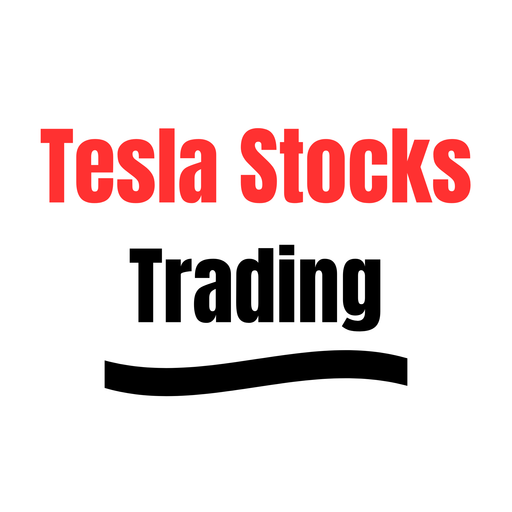
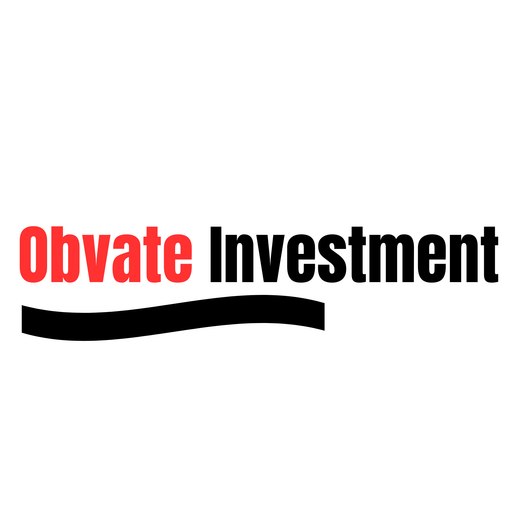
patch

Changed region(s): [[0.0312, 0.4375, 0.9688, 0.7812], [0.4688, 0.25, 0.9375, 0.4062], [0.0625, 0.25, 0.4375, 0.4062]]

diff --git a/app/layout.tsx b/app/layout.tsx
@@ -17,13 +17,13 @@ const montserrat = Montserrat({
 
 export const metadata: Metadata = {
   title: {
-    default: "Tesla Stocks Trading | Invest in the Future",
-    template: "%s | Tesla Stocks Trading",
+    default: "Obvate Investment Company | Invest in the Future",
+    template: "%s | Obvate Investment Company",
   },
   description:
     "Gain exposure to Tesla, SpaceX, Neuralink, xAI, and The Boring Company — the companies shaping humanity's next chapter.",
   keywords: [
-    "Tesla Stocks Trading",
+    "Obvate Investment Company",
     "invest",
     "Tesla",
     "SpaceX",
@@ -33,9 +33,9 @@ export const metadata: Metadata = {
     "digital assets",
     "investment platform",
   ],
-  authors: [{ name: "Tesla Stocks Trading" }],
-  creator: "Tesla Stocks Trading",
-  publisher: "Tesla Stocks Trading",
+  authors: [{ name: "Obvate Investment Company" }],
+  creator: "Obvate Investment Company",
+  publisher: "Obvate Investment Company",
   robots: {
     index: true,
     follow: true,
@@ -43,6 +43,9 @@ export const metadata: Metadata = {
   },
   icons: {
     icon: [
+      { url: "/favicon.ico", sizes: "32x32", type: "image/x-icon" },
+      { url: "/favicon-16x16.png", sizes: "16x16", type: "image/png" },
+      { url: "/favicon-32x32.png", sizes: "32x32", type: "image/png" },
       { url: "/icon-192.png", sizes: "192x192", type: "image/png" },
       { url: "/icon-512.png", sizes: "512x512", type: "image/png" },
     ],
@@ -51,8 +54,8 @@ export const metadata: Metadata = {
   openGraph: {
     type: "website",
     locale: "en_US",
-    siteName: "Tesla Stocks Trading",
-    title: "Tesla Stocks Trading | Invest in the Future",
+    siteName: "Obvate Investment Company",
+    title: "Obvate Investment Company | Invest in the Future",
     description:
       "Gain exposure to Tesla, SpaceX, Neuralink, xAI, and The Boring Company — the companies shaping humanity's next chapter.",
     images: [
@@ -60,13 +63,13 @@ export const metadata: Metadata = {
         url: "/og-image.png",
         width: 1200,
         height: 630,
-        alt: "Tesla Stocks Trading — Invest in the Future",
+        alt: "Obvate Investment Company — Invest in the Future",
       },
     ],
   },
   twitter: {
     card: "summary_large_image",
-    title: "Tesla Stocks Trading | Invest in the Future",
+    title: "Obvate Investment Company | Invest in the Future",
     description:
       "Gain exposure to Tesla, SpaceX, Neuralink, xAI, and The Boring Company.",
     images: ["/og-image.png"],

diff --git a/components/invest/Footer.tsx b/components/invest/Footer.tsx
@@ -48,7 +48,7 @@ export default function Footer() {
                             className="text-base font-bold tracking-[0.25em] uppercase text-white"
                             style={{ fontFamily: "var(--font-montserrat), sans-serif" }}
                         >
-                            Tesla Stocks <span className="text-red-500">Trading</span>
+                            Obvate Investment <span className="text-red-500">Company</span>
                         </Link>
                         <p className="text-xs text-white/30 font-light mt-4 leading-relaxed max-w-[200px]">
                             AI-powered capital deployment across innovation-driven markets.

diff --git a/components/BrandMark.tsx b/components/BrandMark.tsx
@@ -11,7 +11,7 @@ export default function BrandMark() {
             transition={{ duration: 1, delay: 0.2, ease: "easeOut" }}
         >
             <h1 className="text-lg sm:text-xl md:text-2xl font-extralight tracking-[0.4em] uppercase text-white/90 drop-shadow-[0_2px_8px_rgba(0,0,0,0.8)]">
-                Tesla Stocks <span className="text-red-500 font-light">Trading</span>
+                Obvate <span className="text-red-500 font-light">Investment</span> Company
             </h1>
         </motion.header>
     );
